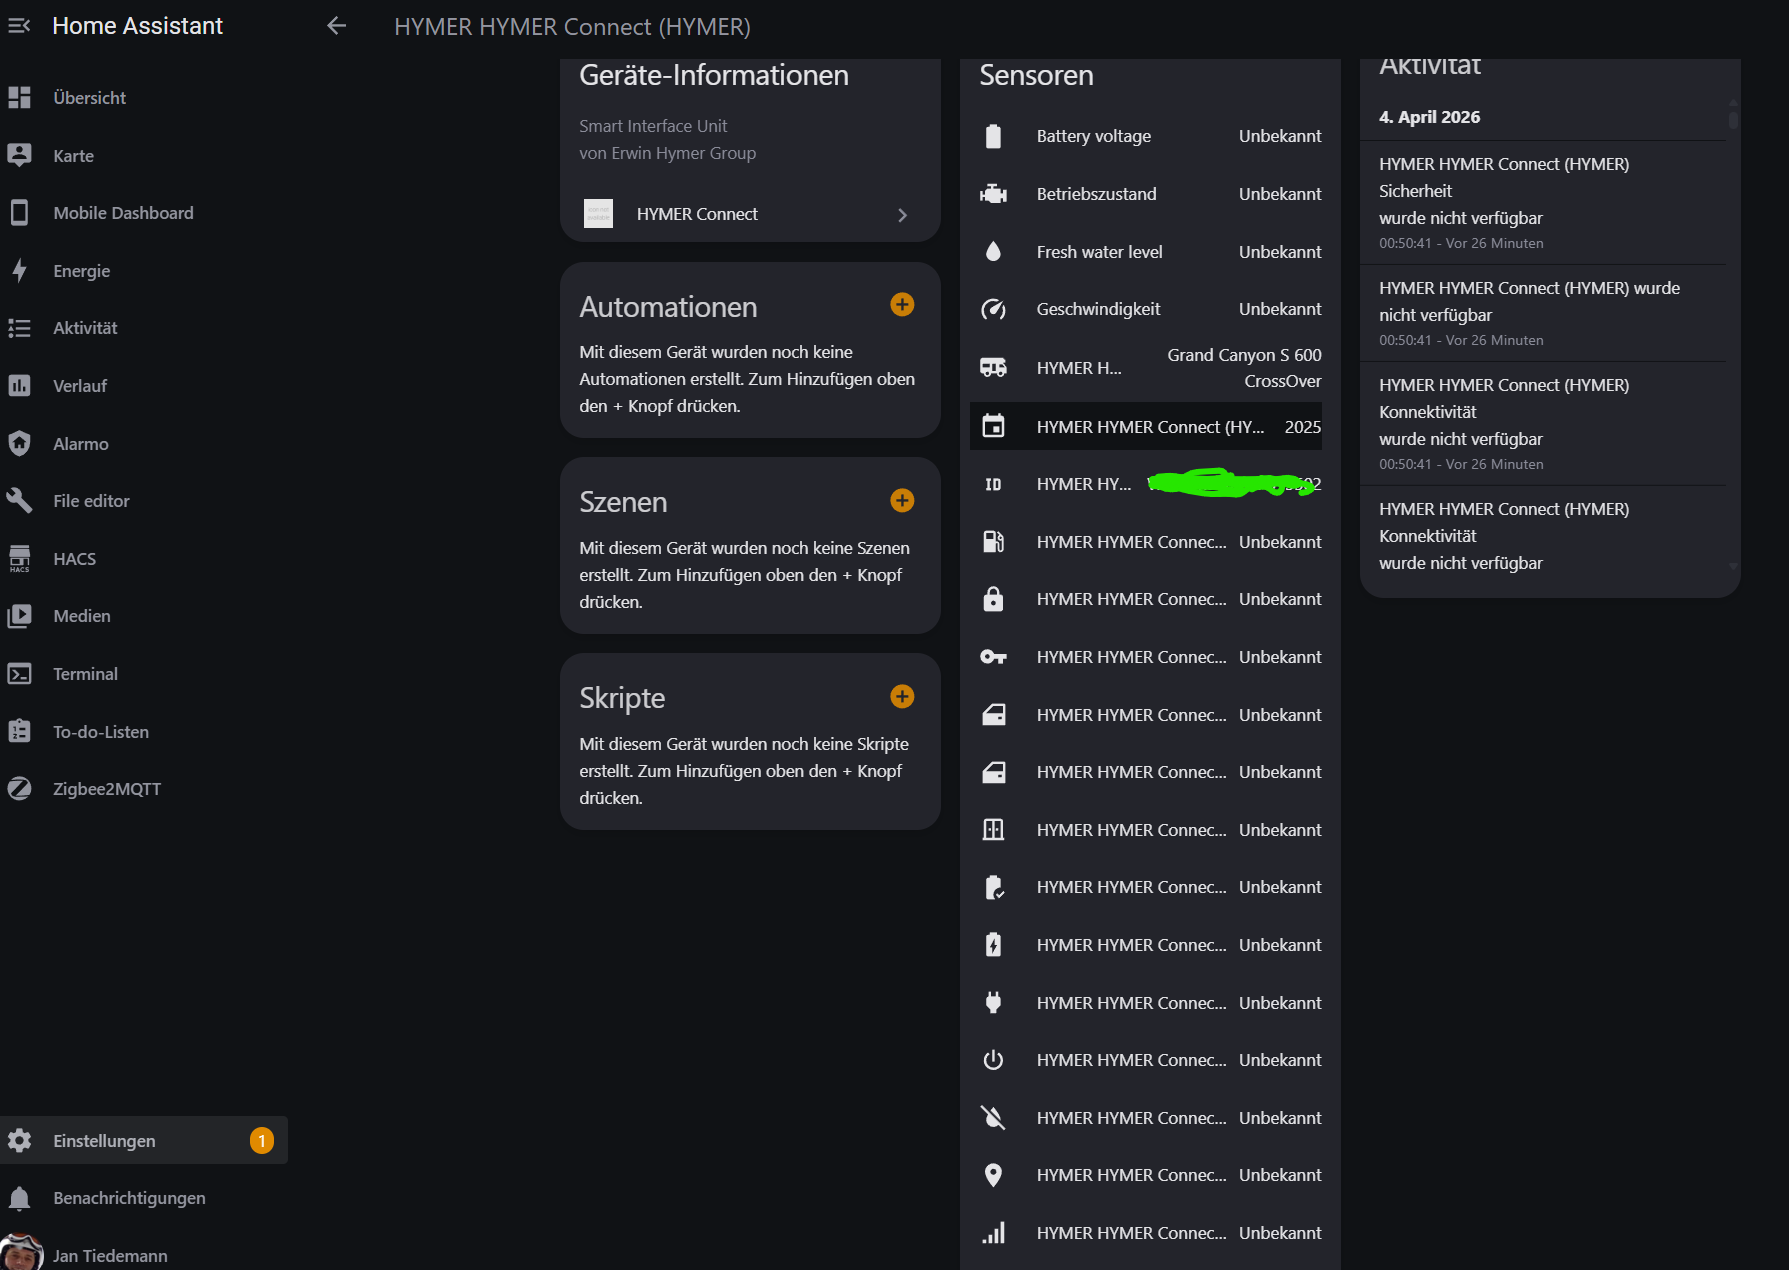
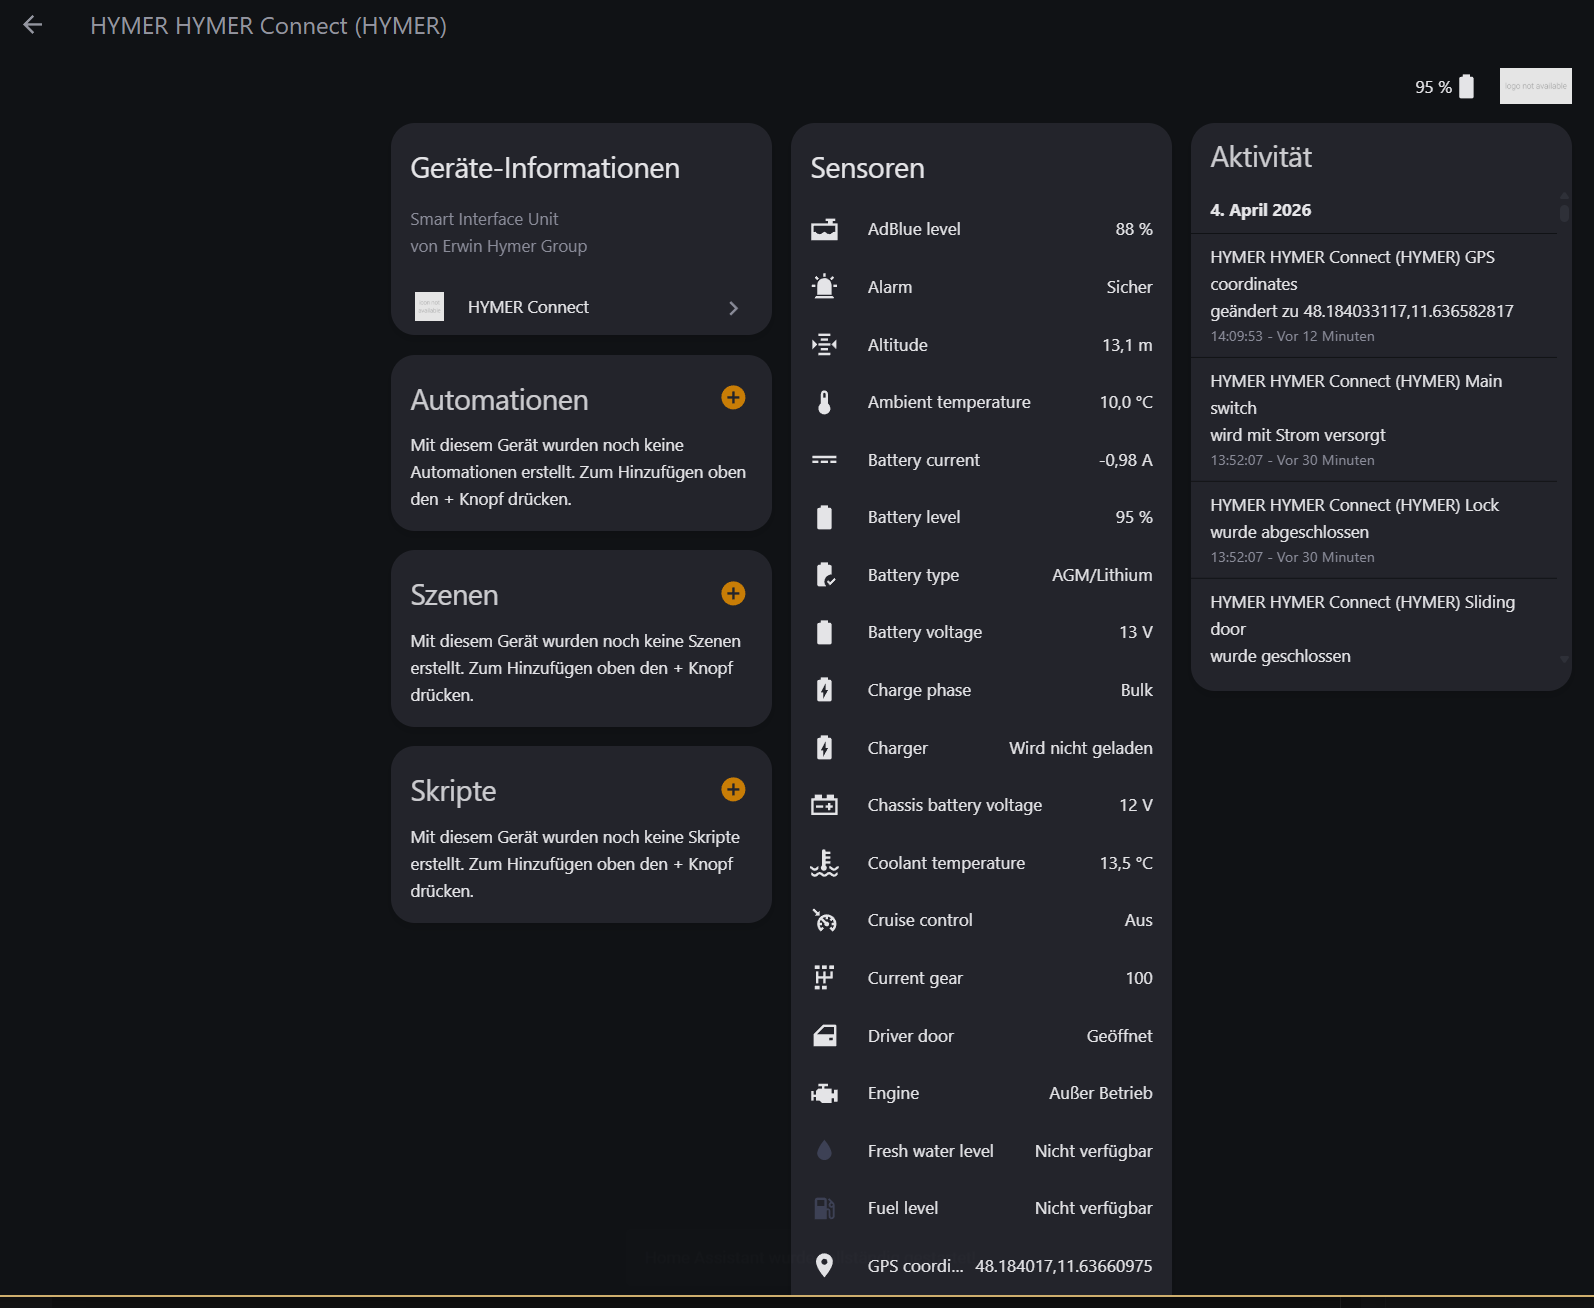
docs: update screenshots and sync README to v1.5.0

diff --git a/README.md b/README.md
@@ -4,9 +4,11 @@
 
 Custom integration to connect your HYMER / Erwin Hymer Group motorhome or caravan to [Home Assistant](https://www.home-assistant.io/).
 
-> **v1.2.0** — Real-time sensor data via SignalR fully working. 130+ sensors with proper names including odometer, GPS, battery, water levels, temperatures, door status, and more.
+> **v1.5.0** — Real-time sensor data via SignalR. 142 sensors including odometer, GPS, battery, temperatures, door/lock status, Truma heater, fridge, alarm, and more. Correct sensor mappings verified against the Hymer Connect app.
 
 ![HYMER Connect Integration in Home Assistant](https://raw.githubusercontent.com/BetaHydri/hymer-connect-ha/master/images/ha-screenshot.png)
+
+![HYMER Connect Sensors continued](https://raw.githubusercontent.com/BetaHydri/hymer-connect-ha/master/images/ha-screenshot_2.png)
 
 ## Supported Brands
 
@@ -24,14 +26,14 @@ All Erwin Hymer Group brands equipped with a **Smart Interface Unit (SIU)**:
 
 ### Real-Time Sensors (via SignalR, requires EHG Refresh Token)
 
-- **Vehicle** — odometer, speed, RPM, fuel level, fuel range, engine hours, coolant temp, gear
-- **Battery** — voltage, current, solar voltage, charge phase, charger status, battery type
-- **Water** — fresh water level (%), grey water level (%), grey water sensor
+- **Vehicle** — odometer, speed, RPM, AdBlue level, fuel range, engine hours, coolant temp, gear
+- **Battery** — voltage, current, SOC (%), chassis battery voltage, charge phase, charger status, battery type
+- **Water** — grey water level (%), grey water sensor
 - **Temperature** — indoor, outdoor, ambient, AdBlue
 - **GPS** — coordinates, altitude, heading, satellites, signal quality, UTC time
 - **Doors** — driver, passenger, sliding, rear (open/closed)
 - **Status** — lock status, ignition, handbrake, engine running, headlamp, cruise control
-- **Heating** — Truma heater mode, setpoint, fan speed, fuel type, operating mode
+- **Heating** — Truma heater fan speed (Off/Eco/High), setpoint, electric power (0/900/1800W), fuel type, operating mode
 - **Fridge** — mode, status
 - **Alarm** — armed status, battery level
 - **SCU** — firmware version, connectivity

diff --git a/custom_components/hymer_connect/README.md b/custom_components/hymer_connect/README.md
@@ -8,6 +8,8 @@ Custom integration to connect your HYMER / Erwin Hymer Group motorhome or carava
 
 ![HYMER Connect Integration in Home Assistant](https://raw.githubusercontent.com/BetaHydri/hymer-connect-ha/master/images/ha-screenshot.png)
 
+![HYMER Connect Sensors continued](https://raw.githubusercontent.com/BetaHydri/hymer-connect-ha/master/images/ha-screenshot_2.png)
+
 ## Supported Brands
 
 All Erwin Hymer Group brands equipped with a **Smart Interface Unit (SIU)**:
